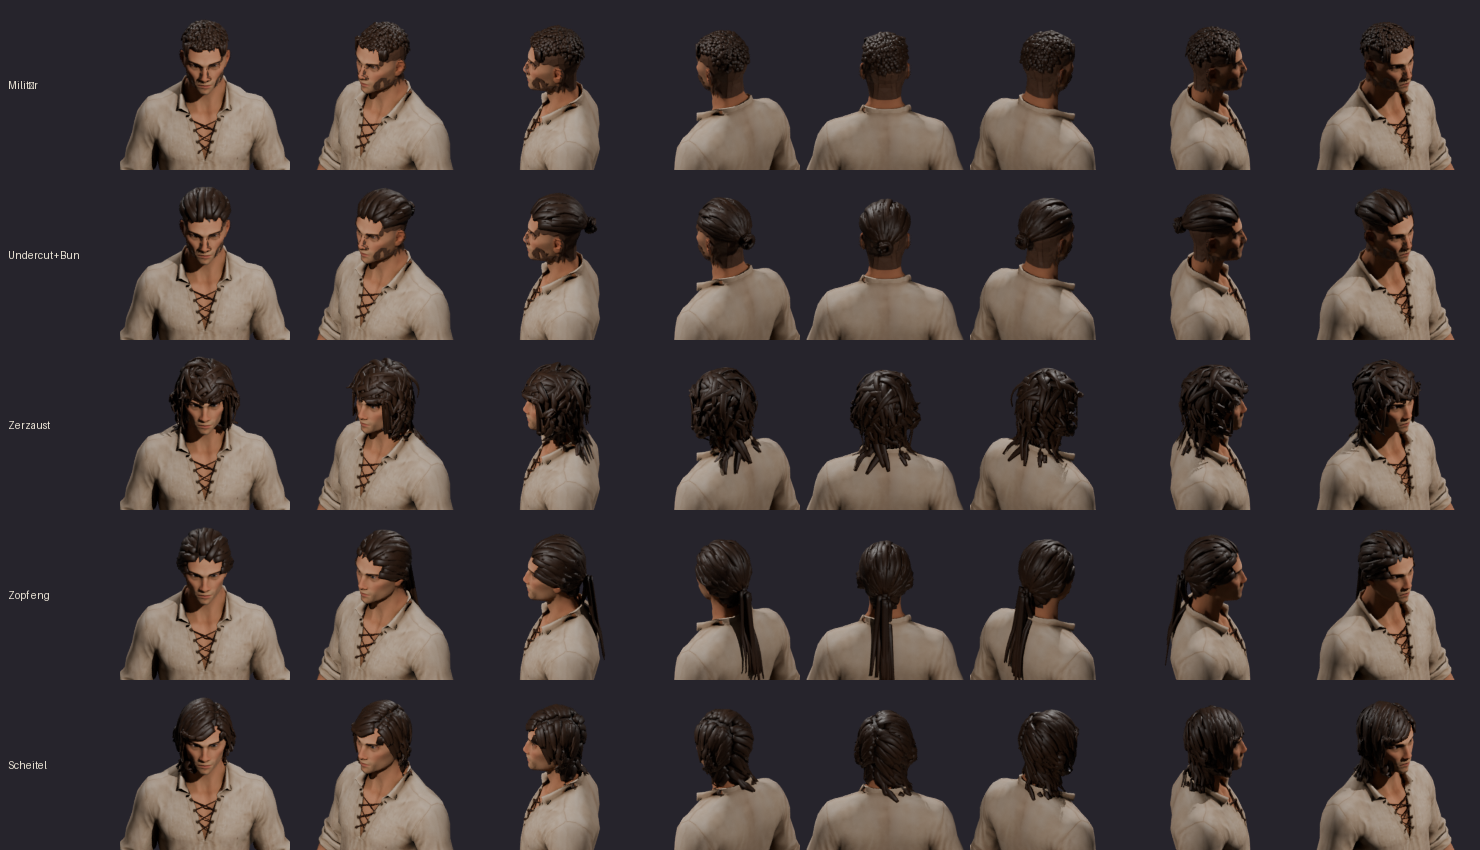
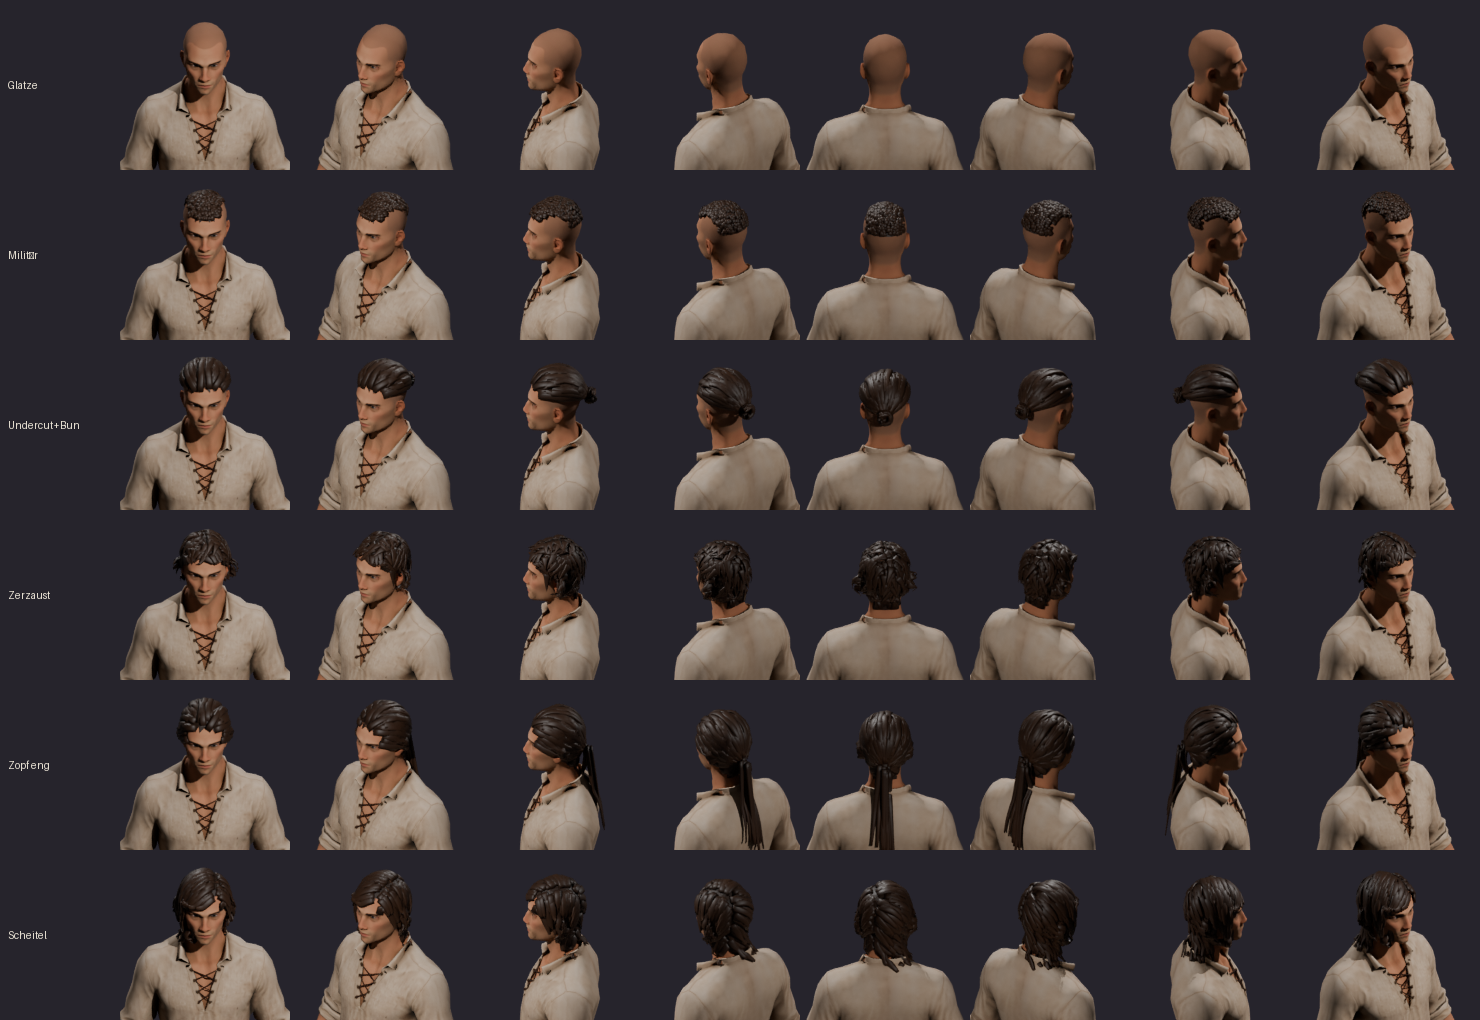
Frisuren für den Grundmann gespeichert: Glatze (Standard), Militär, Undercut mit Bun, zerzaust, Zopf eng, Scheitel – als wählbare Ebenen im Platz „haar“, Katalog in kopf.haar.herren/asset.json, Vorschaublatt
Claude-Session: https://claude.ai/code/session_01TxcDgCBymSgCktFtp5hokG

diff --git a/fabrik/frisuren_blatt.py b/fabrik/frisuren_blatt.py
@@ -24,7 +24,9 @@ cam = bpy.data.objects.new("c", bpy.data.cameras.new("c")); cam.data.type = "ORT
 ziel_p = Vector((0, 0.02, 0.95 if GANZ else 1.6)); NEIGUNG = math.radians(30)
 zeilen = []
 for name, datei in frisuren:
-    vorher = set(bpy.data.objects); bpy.ops.import_scene.gltf(filepath=os.path.abspath(datei)); neu = [o for o in bpy.data.objects if o not in vorher]
+    vorher = set(bpy.data.objects)
+    if datei != "-": bpy.ops.import_scene.gltf(filepath=os.path.abspath(datei))                     # "-": ohne Frisur (Glatze)
+    neu = [o for o in bpy.data.objects if o not in vorher]
     bilder = []
     for r in range(8):
         a = math.radians(45 * r); d = Vector((math.sin(a) * math.cos(NEIGUNG), -math.cos(a) * math.cos(NEIGUNG), math.sin(NEIGUNG)))
